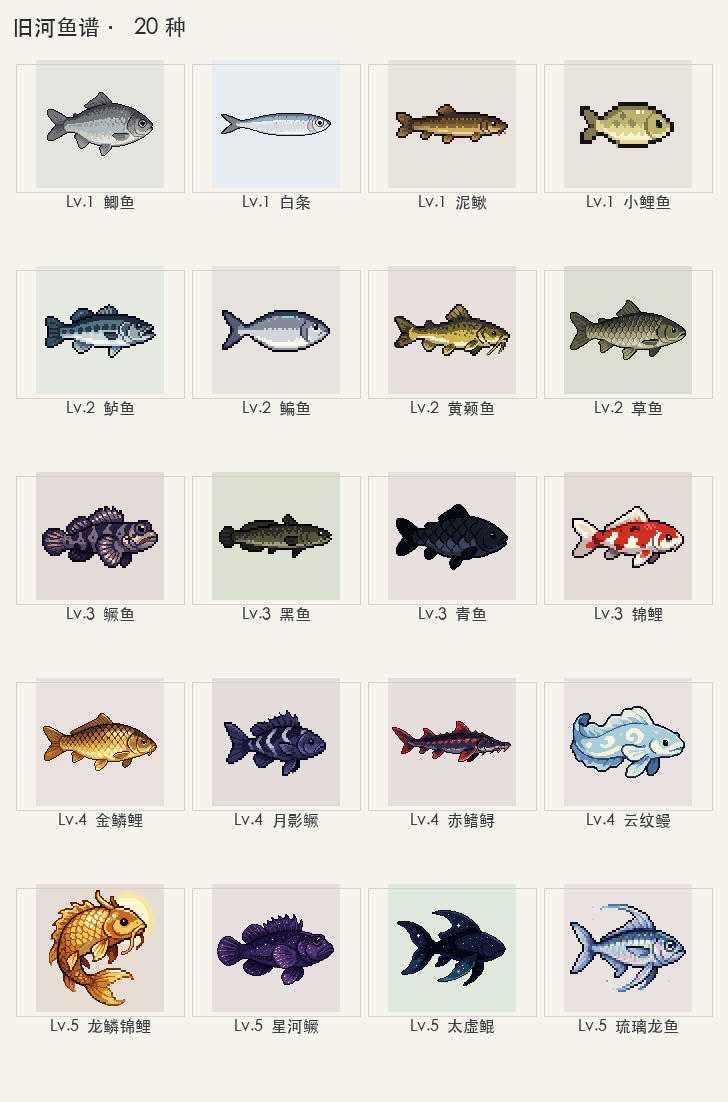
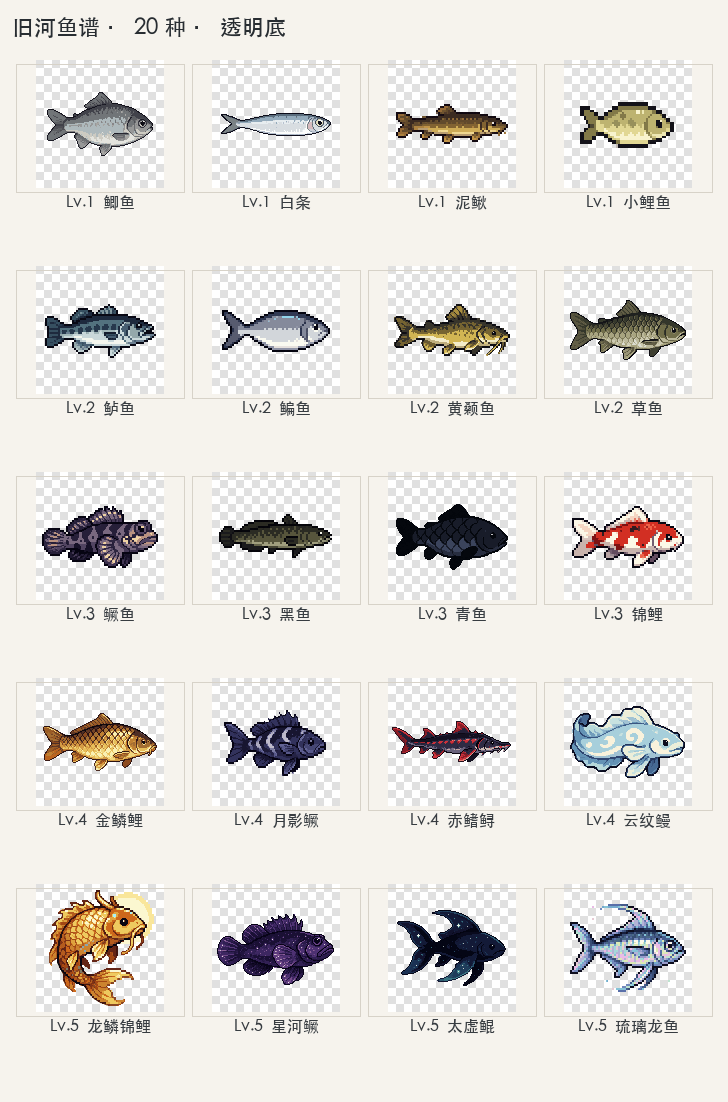
assets: rename fish sprites and add transparent backgrounds

diff --git a/docs/design/fishing-game.md b/docs/design/fishing-game.md
@@ -677,6 +677,29 @@ priceType: fixed
 同一个 QQ 在不同群拥有独立的玩家记录、背包和金币。
 ```
 
+## 资产
+
+```text
+assets/fish/fish_t{tier}_{index}_{id}.png
+```
+
+示例：
+
+```text
+fish_t1_01_crucian.png
+fish_t3_04_koi.png
+fish_t5_04_glazed_dragonfish.png
+```
+
+规格：
+
+```text
+128 × 128
+PNG
+RGBA
+透明背景
+```
+
 ## 待定
 
 ```text
